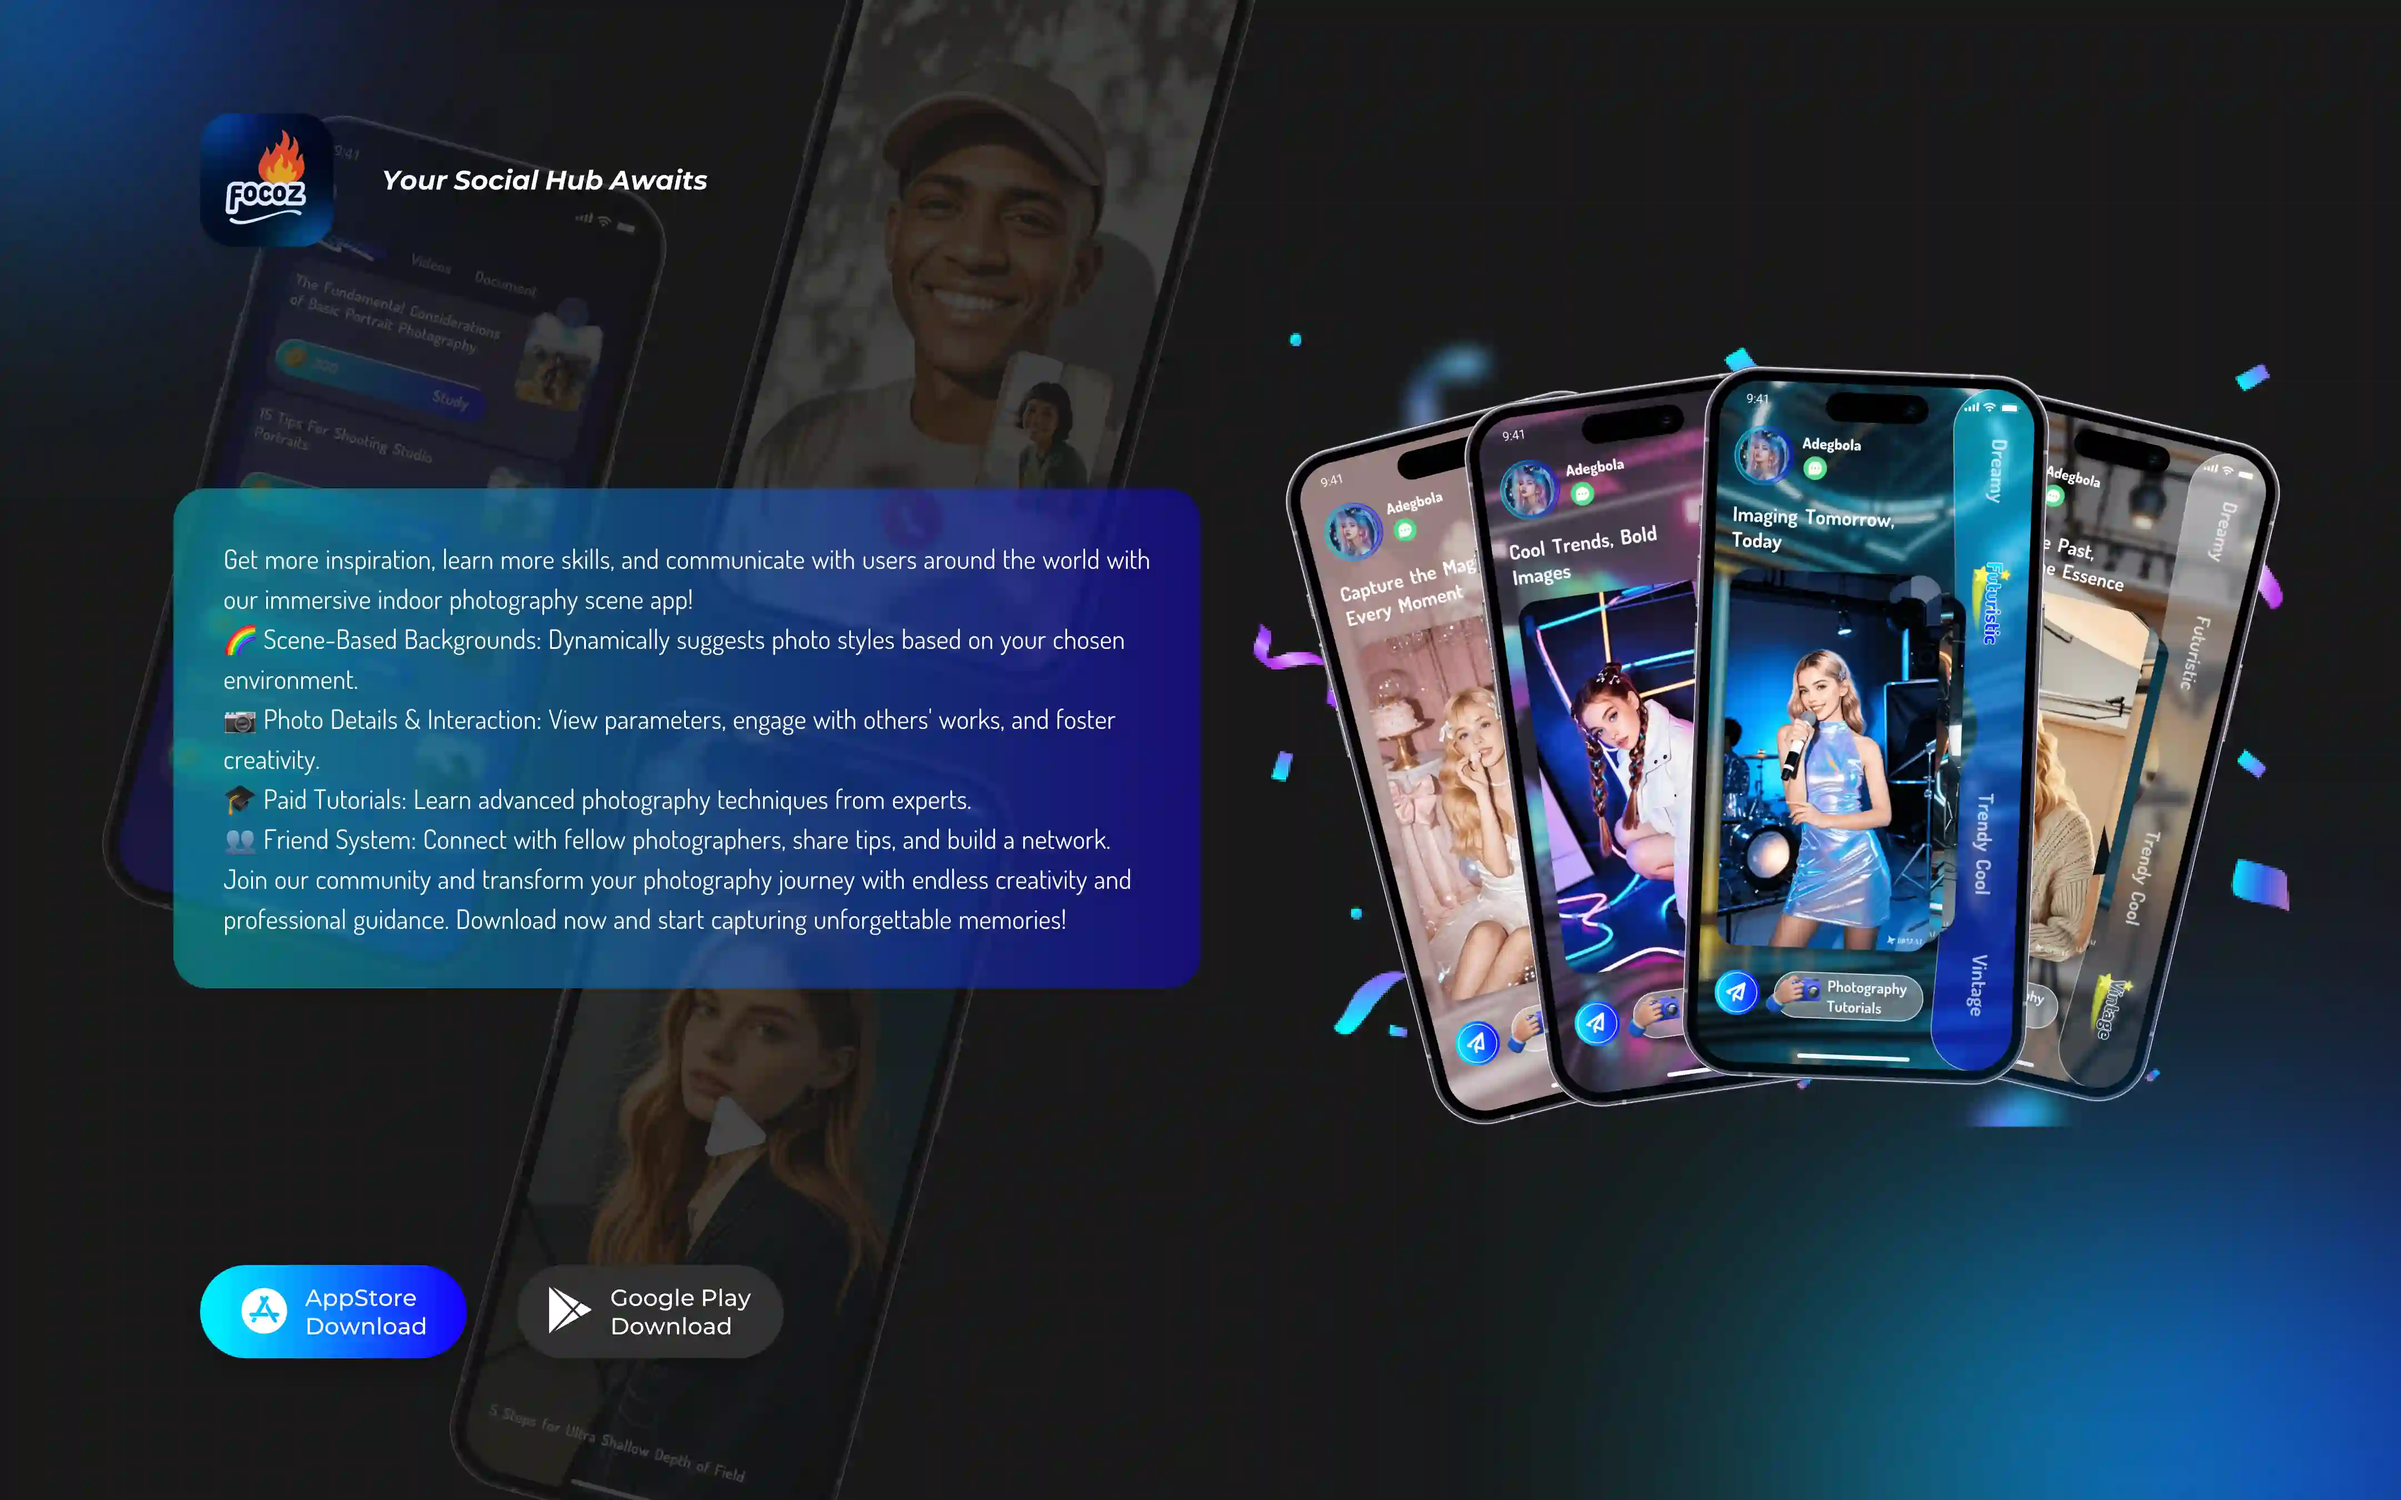
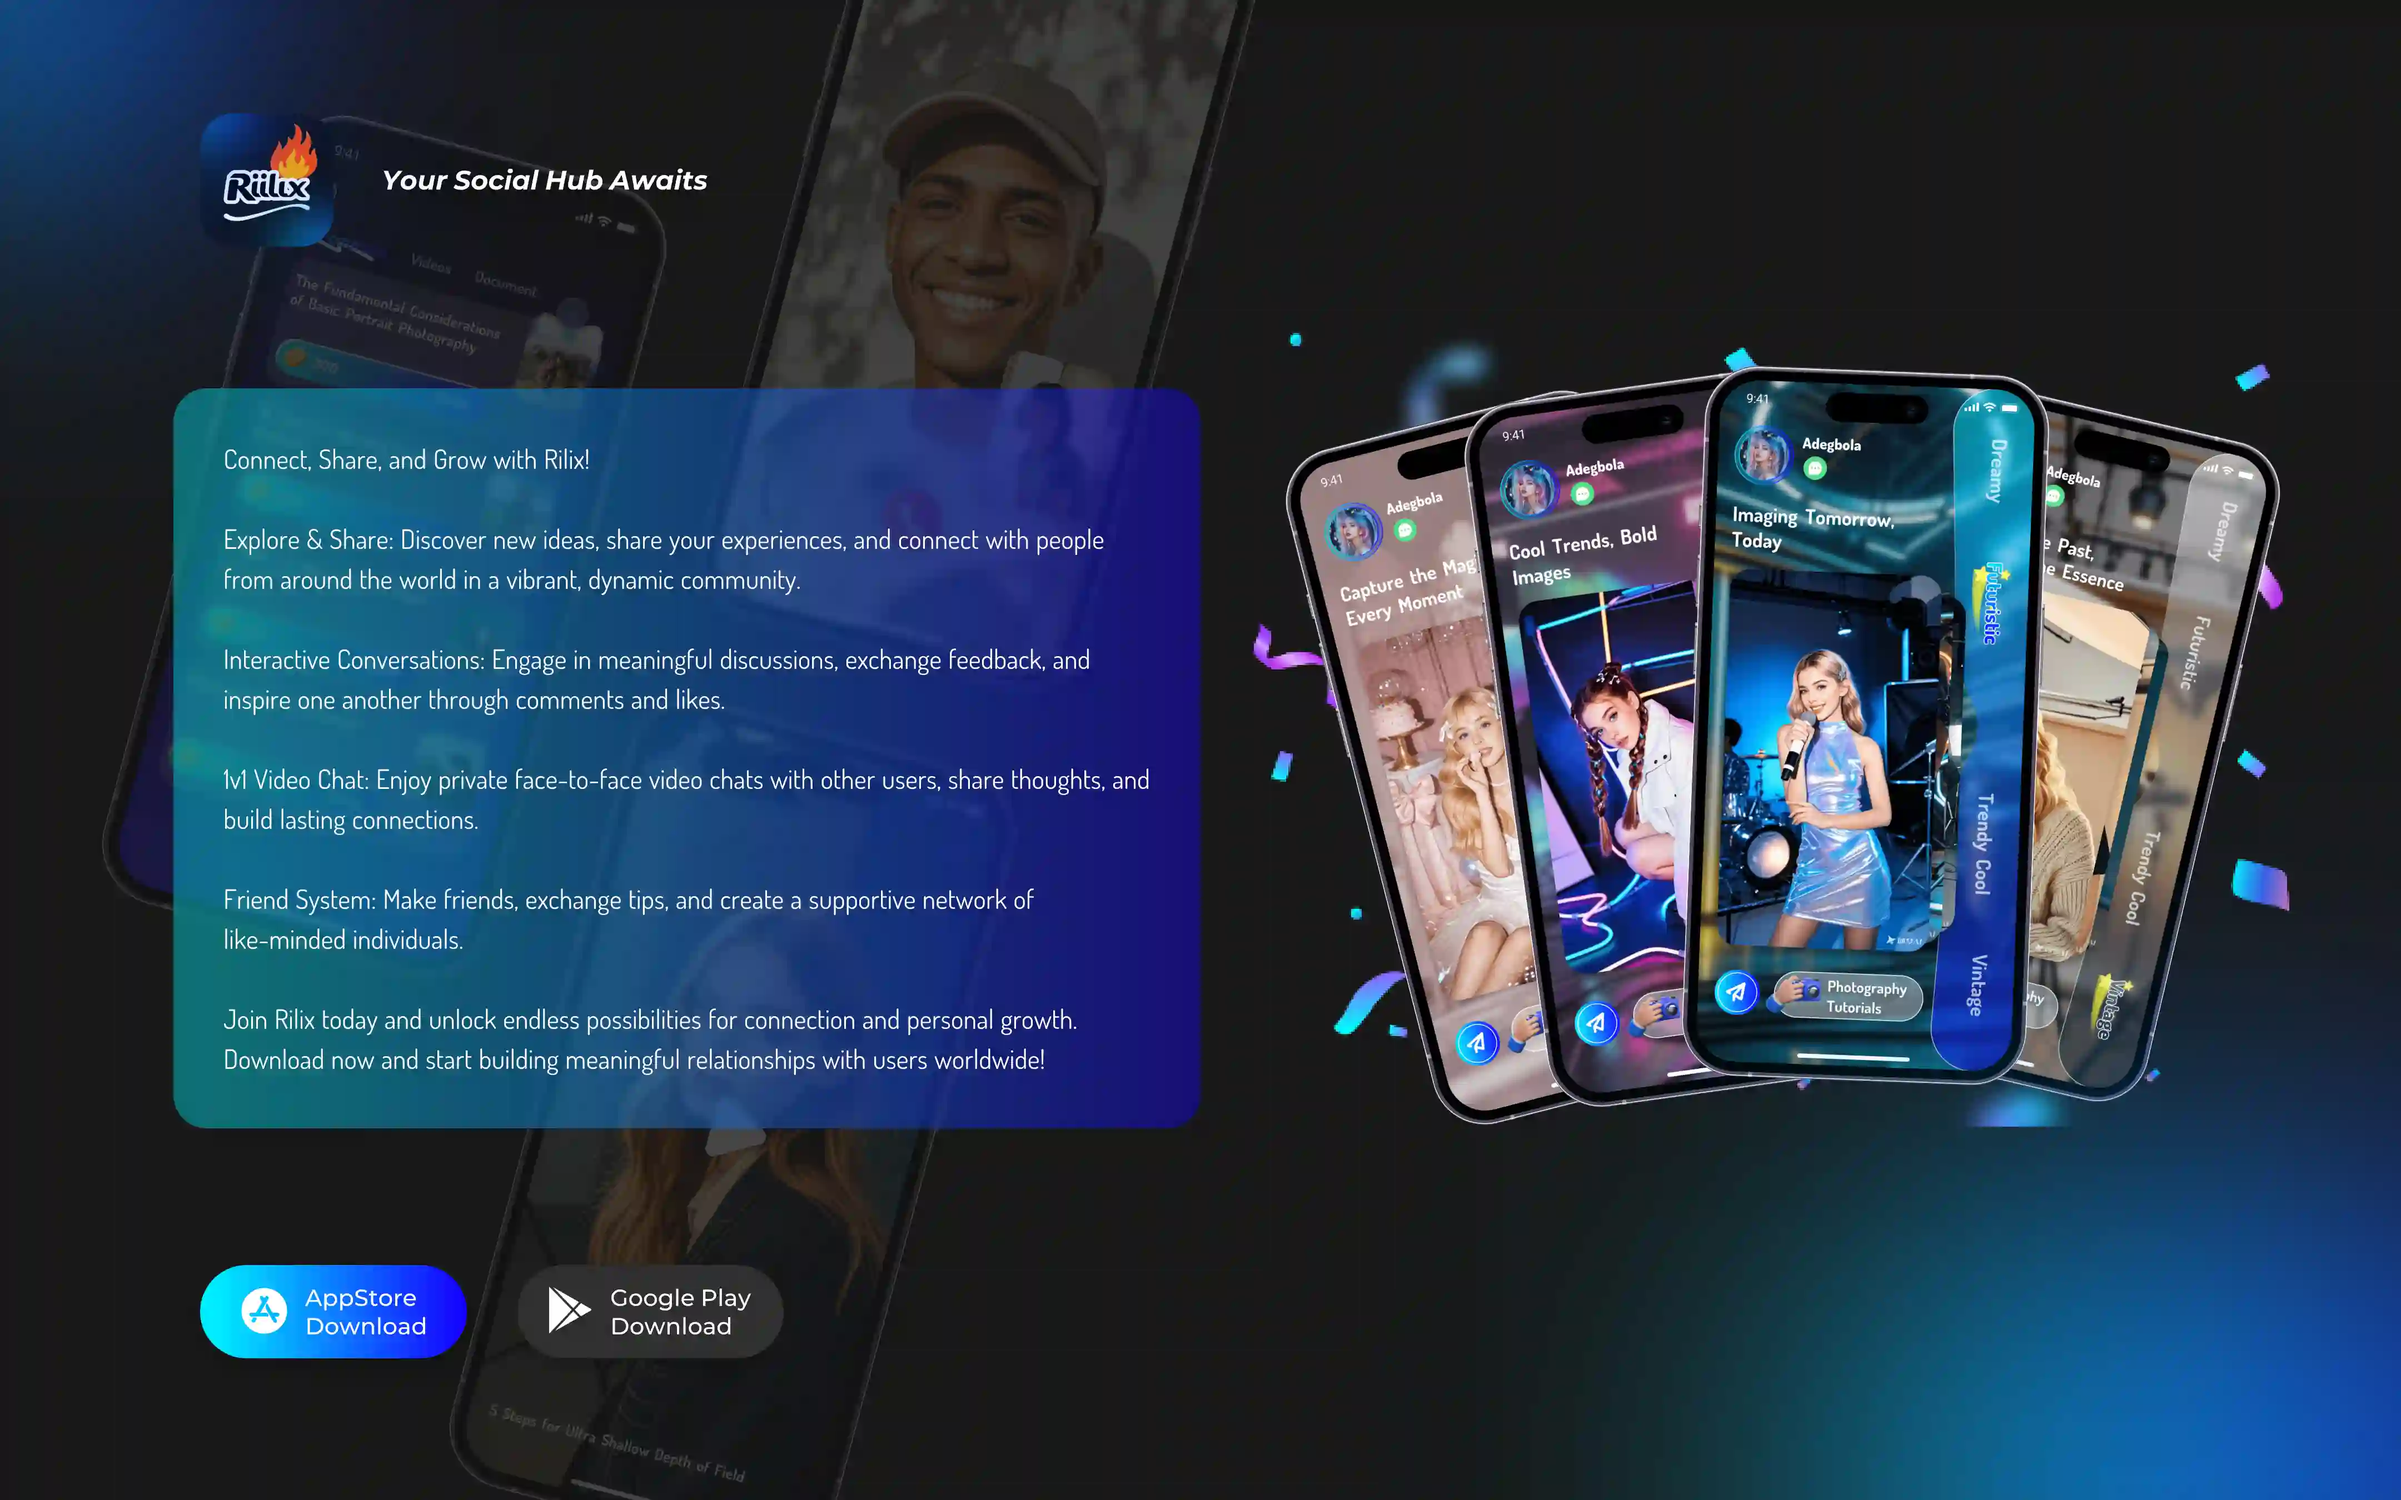
1

Changed region(s): [[0.0625, 0.2489, 0.5, 0.7778], [0.0938, 0.0933, 0.1562, 0.1556]]

diff --git a/index.html b/index.html
@@ -4,7 +4,7 @@
   <meta charset="UTF-8">
   <meta name="viewport" content="width=device-width, initial-scale=1.0">
   <link rel="icon" href="/favicon.svg" type="image/svg+xml">
-  <title>FocoZ</title>
+  <title>Rilix</title>
   <meta name="description" content="Opinionated Vite Starter Template">
 </head>
 <body class="font-sans">

diff --git a/src/pages/privacy.vue b/src/pages/privacy.vue
@@ -2,7 +2,7 @@
 defineOptions({
   name: 'IndexPage',
 })
-const appName = 'FocoZ'
+const appName = 'Rilix'
 </script>
 
 <template>

diff --git a/src/pages/users.vue b/src/pages/users.vue
@@ -2,7 +2,7 @@
 defineOptions({
   name: 'IndexPage',
 })
-const appName = 'FocoZ'
+const appName = 'Rilix'
 </script>
 
 <template>
